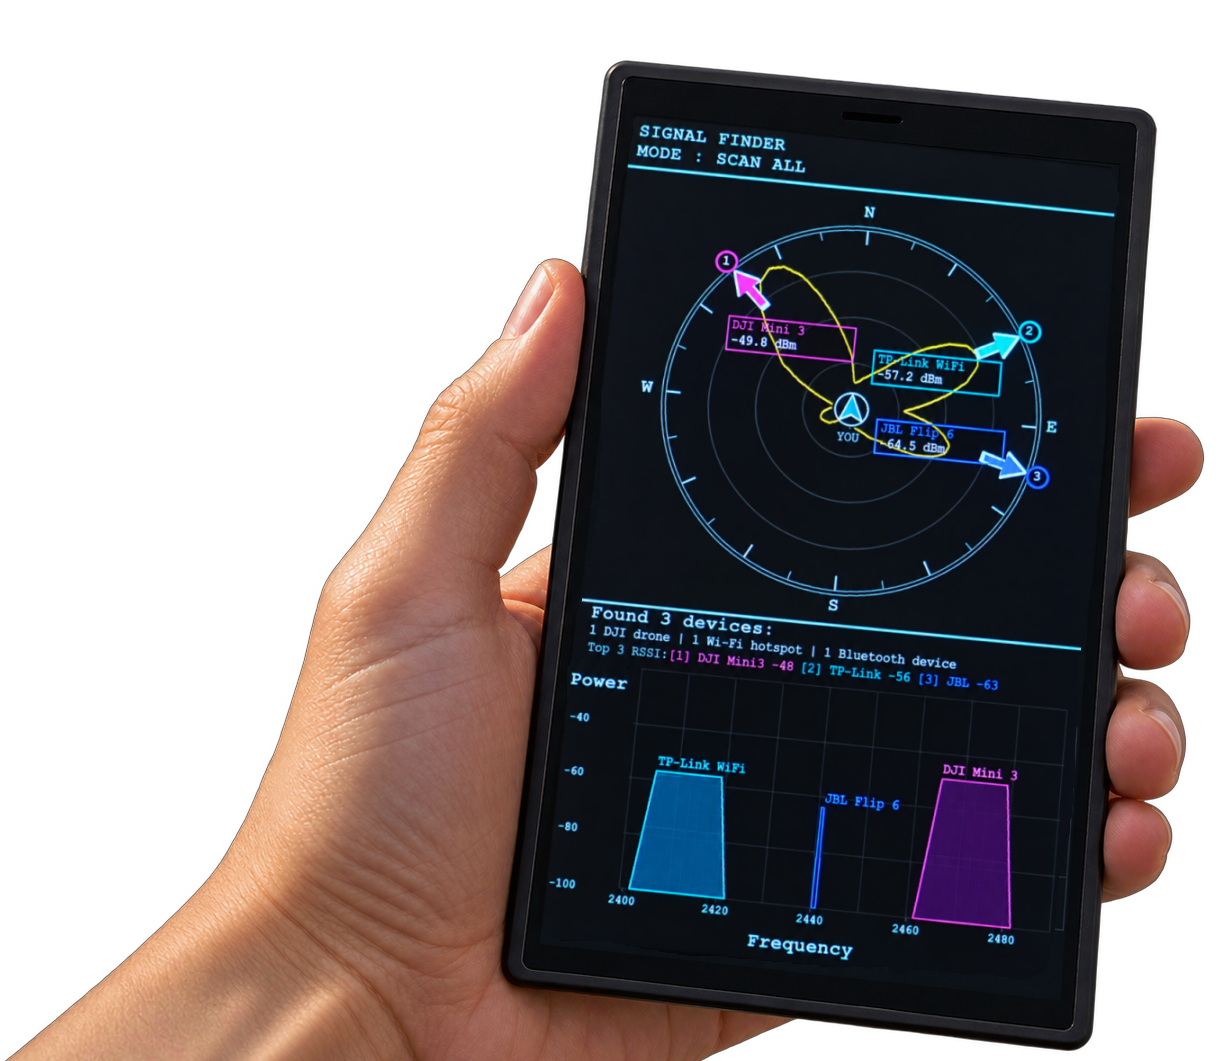
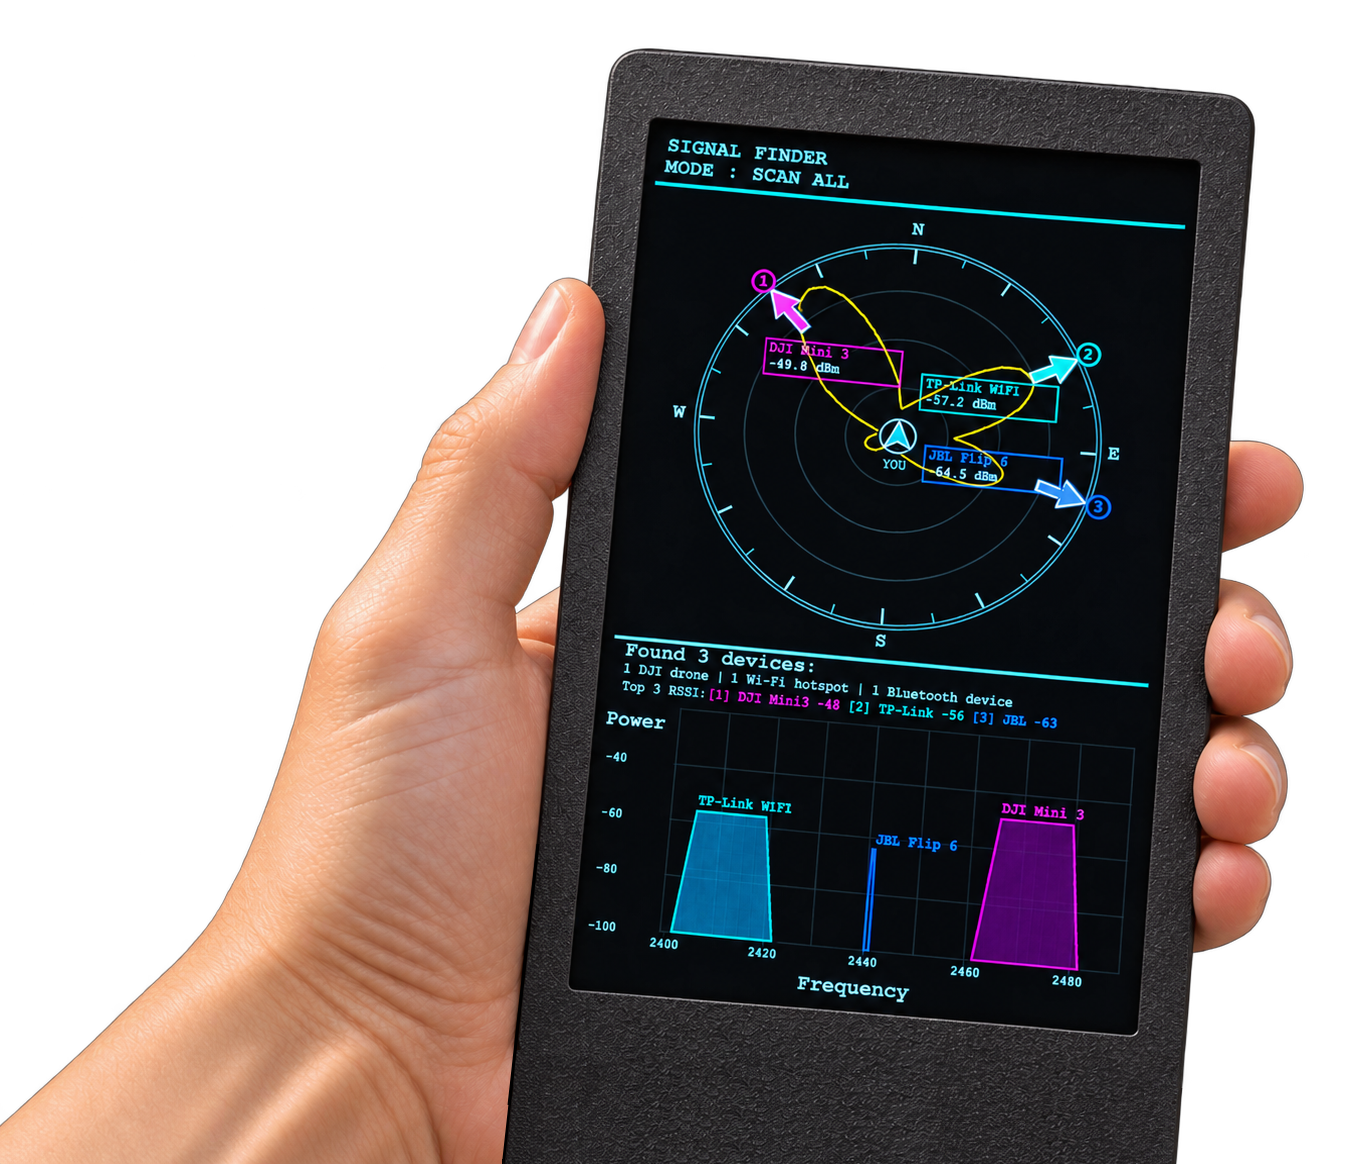
reqvest a prototype form

diff --git a/index.html b/index.html
@@ -339,6 +339,31 @@
       text-decoration: underline;
     }
 
+
+    .prototype-cta{max-width:920px;margin:-22px auto 72px;padding:0 24px}
+    .prototype-cta-inner{border:1px solid var(--line);border-radius:18px;padding:28px 30px;display:flex;align-items:center;justify-content:space-between;gap:28px;background:var(--white)}
+    .prototype-cta-copy{flex:1}.prototype-cta-copy h2{margin:0 0 8px;font-size:clamp(23px,3vw,32px);letter-spacing:-.03em}
+    .prototype-cta-copy p{margin:0;max-width:610px;color:#555;line-height:1.6;font-size:16px}
+    .prototype-capabilities{margin-top:18px;padding-top:18px;border-top:1px solid var(--line);display:grid;grid-template-columns:repeat(2,1fr);gap:10px 22px;color:#555;font-size:13px;line-height:1.45}
+    .prototype-capabilities strong{color:#111;display:block;margin-bottom:2px}
+    .prototype-button{flex:0 0 auto;border:0;border-radius:999px;background:var(--black);color:var(--white);font:inherit;font-size:15px;font-weight:700;padding:14px 22px;cursor:pointer}
+    .prototype-button:disabled{opacity:.55;cursor:default}
+    .prototype-modal{position:fixed;inset:0;z-index:1000;display:none;align-items:center;justify-content:center;padding:24px;background:rgba(0,0,0,.42)}
+    .prototype-modal.is-open{display:flex}.prototype-dialog{width:min(600px,100%);max-height:calc(100vh - 48px);overflow-y:auto;background:#fff;border-radius:20px;box-shadow:0 24px 70px rgba(0,0,0,.22);padding:28px;position:relative}
+    .prototype-dialog h2{margin:0 42px 8px 0;font-size:28px;letter-spacing:-.03em}.prototype-dialog-intro{margin:0 0 22px;color:#666;line-height:1.55;font-size:15px}
+    .prototype-close{position:absolute;top:18px;right:18px;width:34px;height:34px;border:0;border-radius:50%;background:#f1f1f1;color:#111;font-size:22px;cursor:pointer}
+    .prototype-form{display:grid;gap:16px}.prototype-field{display:grid;gap:7px}.prototype-field>label{font-size:13px;font-weight:700;color:#333}
+    .prototype-field input[type=text],.prototype-field textarea{width:100%;border:1px solid #d7d7d7;border-radius:12px;background:#fff;color:#111;font:inherit;font-size:15px;padding:12px 14px;outline:none}
+    .prototype-field textarea{min-height:105px;resize:vertical;line-height:1.5}.prototype-field input:focus,.prototype-field textarea:focus{border-color:#777;box-shadow:0 0 0 3px rgba(0,0,0,.05)}
+    .prototype-options{display:grid;grid-template-columns:repeat(3,1fr);gap:10px}.prototype-option{position:relative}.prototype-option input{position:absolute;opacity:0;pointer-events:none}
+    .prototype-option label{display:block;height:100%;border:1px solid #d7d7d7;border-radius:12px;padding:13px;cursor:pointer;background:#fff}.prototype-option input:checked+label{border-color:#111;background:#f5f5f5}
+    .prototype-option-title{display:block;font-size:14px;font-weight:700;margin-bottom:4px;color:#111}.prototype-option-subtitle{display:block;font-size:12px;line-height:1.4;color:#666}
+    .prototype-check-grid{display:grid;grid-template-columns:1fr 1fr;gap:9px 16px}.prototype-check{display:flex;align-items:flex-start;gap:9px;font-size:13px;line-height:1.4;color:#444;cursor:pointer}.prototype-check input{margin-top:2px}
+    .prototype-submit{width:100%}.prototype-form-note{margin:-4px 0 0;color:#888;font-size:12px;line-height:1.5;text-align:center}
+    .prototype-status{display:none;border-radius:12px;padding:13px 14px;font-size:14px;line-height:1.45}.prototype-status.is-visible{display:block}
+    .prototype-status.success{background:#f1f7f1;border:1px solid #cbdccb;color:#244724}.prototype-status.error{background:#fff3f2;border:1px solid #e6c4c0;color:#7c2720}
+    body.modal-open{overflow:hidden}
+
     @media (max-width: 760px) {
       .header {
         padding: 24px 18px 20px;
@@ -404,6 +429,12 @@
       .contact {
         text-align: left;
       }
+
+      .prototype-cta{margin:-10px auto 56px;padding:0 20px}
+      .prototype-cta-inner{padding:24px;flex-direction:column;align-items:flex-start}
+      .prototype-button{width:100%}
+      .prototype-options,.prototype-check-grid,.prototype-capabilities{grid-template-columns:1fr}
+      .prototype-dialog{padding:24px 20px;border-radius:16px}
     }
   </style>
 </head>
@@ -486,7 +517,92 @@
         intuitive way to detect, identify and locate wireless devices around them.
       </p>
     </section>
+
+    <section class="prototype-cta" aria-labelledby="prototype-cta-title">
+      <div class="prototype-cta-inner">
+        <div class="prototype-cta-copy">
+          <h2 id="prototype-cta-title">Interested in testing a prototype?</h2>
+          <p>Tell us who you are and how you would use Sensitive Tools. We are looking for early testers, pilot users and partners.</p>
+          <div class="prototype-capabilities">
+            <div><strong>ISM Finder</strong>2.4 / 5.8 GHz, Wi-Fi / Bluetooth, direction finding</div>
+            <div><strong>Professional / Custom</strong>Wider or custom bands, alerts, unknown RF activity</div>
+          </div>
+        </div>
+        <button class="prototype-button" type="button" id="openPrototypeModal">Request a prototype</button>
+      </div>
+    </section>
+
   </main>
+
+
+  <div class="prototype-modal" id="prototypeModal" aria-hidden="true">
+    <div class="prototype-dialog" role="dialog" aria-modal="true" aria-labelledby="prototypeDialogTitle">
+      <button class="prototype-close" type="button" id="closePrototypeModal" aria-label="Close">×</button>
+      <h2 id="prototypeDialogTitle">Request a prototype</h2>
+      <p class="prototype-dialog-intro">A few details help us understand where the prototype could be useful.</p>
+
+      <form class="prototype-form" id="prototypeForm">
+        <div class="prototype-field">
+          <label for="prototypeName">Name / company / role</label>
+          <input id="prototypeName" type="text" placeholder="Who are you?" maxlength="200" required />
+        </div>
+
+        <div class="prototype-field">
+          <label>Which prototype are you interested in?</label>
+          <div class="prototype-options">
+            <div class="prototype-option">
+              <input id="prototypeIsm" type="radio" name="prototypeType" value="ISM Finder — 2.4 / 5.8 GHz" checked />
+              <label for="prototypeIsm"><span class="prototype-option-title">ISM Finder</span><span class="prototype-option-subtitle">2.4 / 5.8 GHz, Wi-Fi / Bluetooth</span></label>
+            </div>
+            <div class="prototype-option">
+              <input id="prototypeWideband" type="radio" name="prototypeType" value="Professional / Wideband" />
+              <label for="prototypeWideband"><span class="prototype-option-title">Professional / Wideband</span><span class="prototype-option-subtitle">Multi-band RF monitoring</span></label>
+            </div>
+            <div class="prototype-option">
+              <input id="prototypeCustom" type="radio" name="prototypeType" value="Custom configuration" />
+              <label for="prototypeCustom"><span class="prototype-option-title">Custom</span><span class="prototype-option-subtitle">Specific bands or use case</span></label>
+            </div>
+          </div>
+        </div>
+
+        <div class="prototype-field">
+          <label>Primary use case</label>
+          <div class="prototype-check-grid">
+            <label class="prototype-check"><input type="checkbox" name="useCase" value="Locate Wi-Fi / Bluetooth"> Locate Wi-Fi / Bluetooth</label>
+            <label class="prototype-check"><input type="checkbox" name="useCase" value="Detect unexpected RF activity"> Detect unexpected RF activity</label>
+            <label class="prototype-check"><input type="checkbox" name="useCase" value="Drone / perimeter awareness"> Drone / perimeter awareness</label>
+            <label class="prototype-check"><input type="checkbox" name="useCase" value="RF troubleshooting / interference"> RF troubleshooting / interference</label>
+            <label class="prototype-check"><input type="checkbox" name="useCase" value="Research / integration"> Research / integration</label>
+            <label class="prototype-check"><input type="checkbox" name="useCase" value="Other"> Other</label>
+          </div>
+        </div>
+
+        <div class="prototype-field">
+          <label>What matters most? <span style="font-weight:400;color:#888">Optional</span></label>
+          <div class="prototype-check-grid">
+            <label class="prototype-check"><input type="checkbox" name="priority" value="Direction finding"> Direction finding</label>
+            <label class="prototype-check"><input type="checkbox" name="priority" value="Wide frequency coverage"> Wide frequency coverage</label>
+            <label class="prototype-check"><input type="checkbox" name="priority" value="Fast alerts"> Fast alerts</label>
+            <label class="prototype-check"><input type="checkbox" name="priority" value="Logging / integration"> Logging / integration</label>
+          </div>
+        </div>
+
+        <div class="prototype-field">
+          <label for="prototypeUse">How would you use the prototype?</label>
+          <textarea id="prototypeUse" placeholder="Briefly describe your use case..." maxlength="3000" required></textarea>
+        </div>
+
+        <div class="prototype-field">
+          <label for="prototypeContact">Email or other contact</label>
+          <input id="prototypeContact" type="text" placeholder="you@example.com" maxlength="300" required />
+        </div>
+
+        <div class="prototype-status" id="prototypeStatus" role="status" aria-live="polite"></div>
+        <button class="prototype-button prototype-submit" id="prototypeSubmit" type="submit">Send request</button>
+        <p class="prototype-form-note">Your request is sent directly to Sensitive Tools.</p>
+      </form>
+    </div>
+  </div>
 
   <footer>
     <div class="footer-inner">
@@ -506,6 +622,88 @@
   </footer>
 
 
+
+
+<script>
+(function(){
+  const WORKER_URL="https://sensitive-tools-form.popikeyshen.workers.dev";
+  const modal=document.getElementById("prototypeModal");
+  const openButton=document.getElementById("openPrototypeModal");
+  const closeButton=document.getElementById("closePrototypeModal");
+  const form=document.getElementById("prototypeForm");
+  const submitButton=document.getElementById("prototypeSubmit");
+  const statusBox=document.getElementById("prototypeStatus");
+
+  function showStatus(message,type){
+    statusBox.textContent=message;
+    statusBox.className="prototype-status is-visible "+type;
+  }
+  function clearStatus(){
+    statusBox.textContent="";
+    statusBox.className="prototype-status";
+  }
+  function openModal(){
+    clearStatus();
+    modal.classList.add("is-open");
+    modal.setAttribute("aria-hidden","false");
+    document.body.classList.add("modal-open");
+    document.getElementById("prototypeName").focus();
+  }
+  function closeModal(){
+    modal.classList.remove("is-open");
+    modal.setAttribute("aria-hidden","true");
+    document.body.classList.remove("modal-open");
+  }
+
+  openButton.addEventListener("click",openModal);
+  closeButton.addEventListener("click",closeModal);
+  modal.addEventListener("click",e=>{if(e.target===modal)closeModal()});
+  document.addEventListener("keydown",e=>{if(e.key==="Escape"&&modal.classList.contains("is-open"))closeModal()});
+
+  form.addEventListener("submit",async function(event){
+    event.preventDefault();
+    clearStatus();
+
+    const name=document.getElementById("prototypeName").value.trim();
+    const prototypeType=document.querySelector('input[name="prototypeType"]:checked')?.value||"";
+    const useCases=[...document.querySelectorAll('input[name="useCase"]:checked')].map(el=>el.value);
+    const priorities=[...document.querySelectorAll('input[name="priority"]:checked')].map(el=>el.value);
+    const description=document.getElementById("prototypeUse").value.trim();
+    const contact=document.getElementById("prototypeContact").value.trim();
+
+    if(!name||!description||!contact){
+      showStatus("Please complete all required fields.","error");
+      return;
+    }
+
+    submitButton.disabled=true;
+    submitButton.textContent="Sending...";
+
+    try{
+      const response=await fetch(WORKER_URL,{
+        method:"POST",
+        headers:{"Content-Type":"application/json"},
+        body:JSON.stringify({name,prototypeType,useCases,priorities,description,contact})
+      });
+
+      let result={};
+      try{result=await response.json()}catch(_){}
+
+      if(!response.ok) throw new Error(result.error||"Unable to send request.");
+
+      showStatus("Request sent. Thank you — we will review your use case and get back to you.","success");
+      form.reset();
+      document.getElementById("prototypeIsm").checked=true;
+    }catch(error){
+      console.error(error);
+      showStatus(error.message||"Unable to send the request. Please try again.","error");
+    }finally{
+      submitButton.disabled=false;
+      submitButton.textContent="Send request";
+    }
+  });
+})();
+</script>
 
 <!-- Default Statcounter code for my site https://viacheslav-popika.com/ -->
 <script type="text/javascript">
